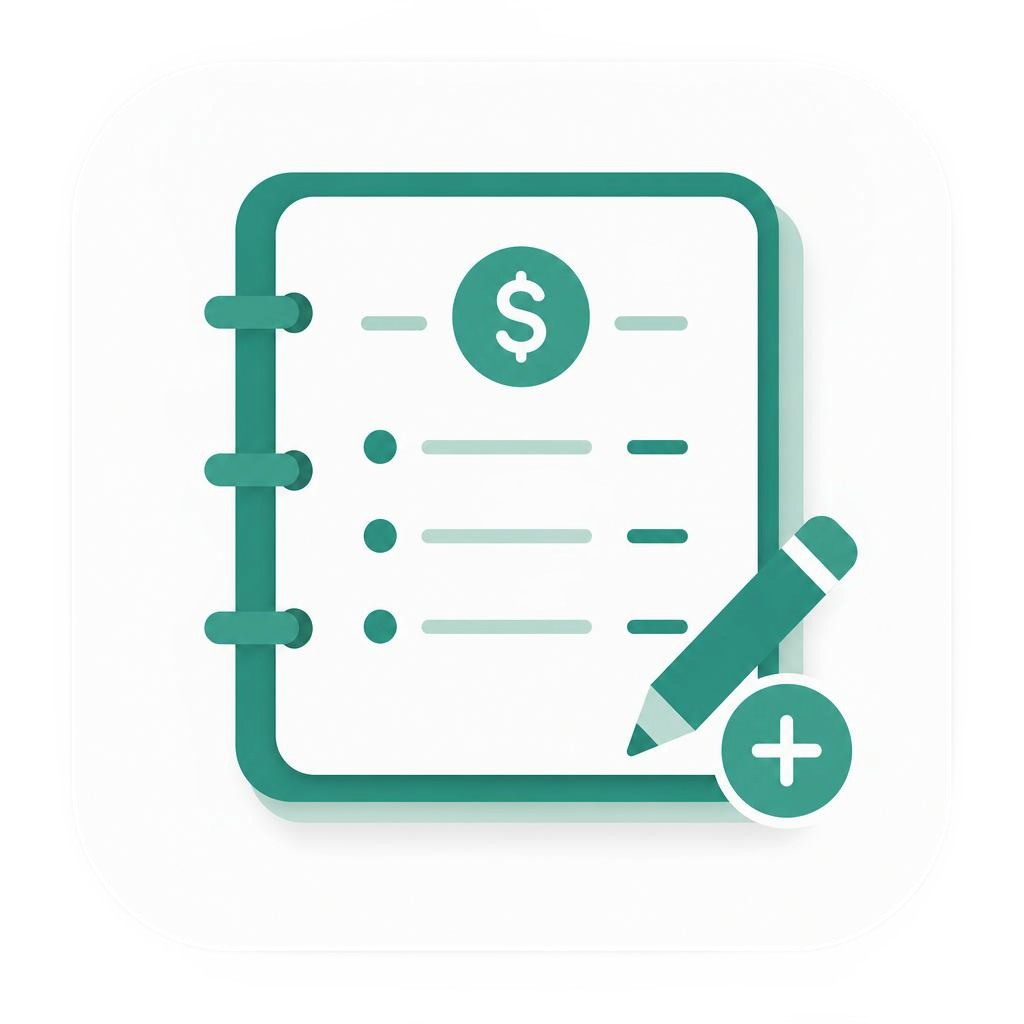
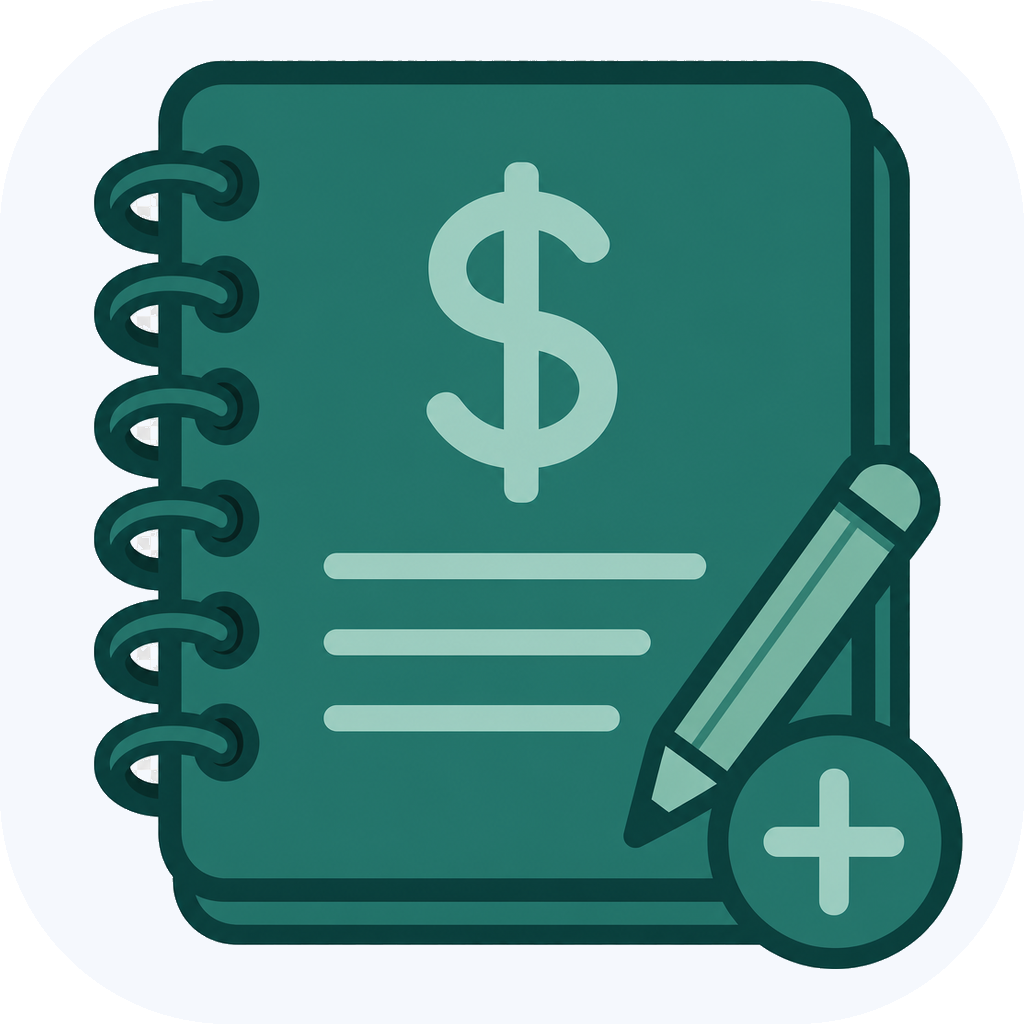
feat: 图标优化

diff --git a/fnos/generate-icons.py b/fnos/generate-icons.py
@@ -1,11 +1,13 @@
 #!/usr/bin/env python3
-"""Generate fnOS fpk icons from web/public/icon.png (with transparent corners)."""
+"""Generate fnOS fpk icons from web/public/icon.png (#f5f8fd fill, transparent rounded corners)."""
 
 from __future__ import annotations
 
 import subprocess
 import sys
 from pathlib import Path
+
+BG_RGB = (0xF5, 0xF8, 0xFD)
 
 
 def ensure_pillow() -> None:
@@ -18,17 +20,27 @@ def ensure_pillow() -> None:
         )
 
 
-def with_transparent_corners(src_path: Path):
-    from PIL import Image, ImageDraw
+def flatten_opaque(src_path: Path):
+    from PIL import Image
 
     img = Image.open(src_path).convert("RGBA")
-    w, h = img.size
-    # 与 iOS 应用图标相近的圆角比例，裁掉四角白底
+    out = Image.new("RGB", img.size, BG_RGB)
+    out.paste(img, mask=img.split()[3])
+    return out
+
+
+def with_rounded_corners(img):
+    from PIL import Image, ImageDraw
+
+    rgb = img.convert("RGB")
+    w, h = rgb.size
     radius = max(1, int(min(w, h) * 0.223))
     mask = Image.new("L", (w, h), 0)
     ImageDraw.Draw(mask).rounded_rectangle((0, 0, w - 1, h - 1), radius=radius, fill=255)
-    img.putalpha(mask)
-    return img
+    out = Image.new("RGBA", (w, h))
+    out.paste(rgb, mask=mask)
+    out.putalpha(mask)
+    return out
 
 
 def write_icon(src_path: Path, dst: Path, size: int) -> None:
@@ -36,7 +48,7 @@ def write_icon(src_path: Path, dst: Path, size: int) -> None:
     from PIL import Image
 
     dst.parent.mkdir(parents=True, exist_ok=True)
-    img = with_transparent_corners(src_path)
+    img = with_rounded_corners(flatten_opaque(src_path))
     if img.size != (size, size):
         img = img.resize((size, size), Image.Resampling.LANCZOS)
     img.save(dst, format="PNG")
@@ -50,11 +62,10 @@ def main() -> None:
     if not src.is_file():
         raise SystemExit(f"Missing icon source: {src}")
 
-    # 回写源图，Web / PWA 同样去掉四角白底
     ensure_pillow()
-    fixed = with_transparent_corners(src)
+    fixed = with_rounded_corners(flatten_opaque(src))
     fixed.save(src, format="PNG")
-    print(f"Updated {src} (RGBA, transparent corners)")
+    print(f"Updated {src} (RGBA, rounded corners, transparent outside)")
 
     targets = [
         (root / "ICON.PNG", 256),